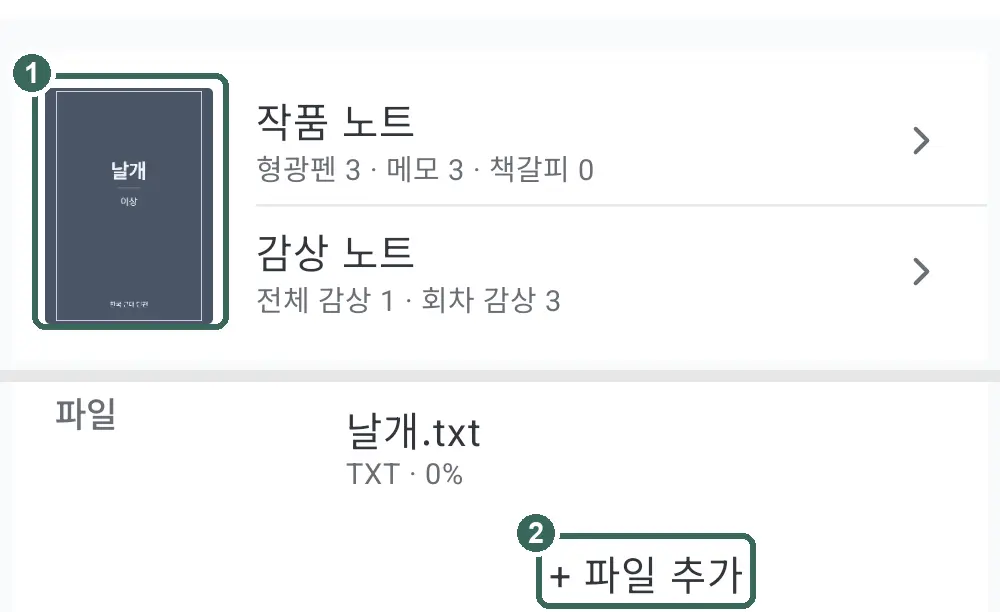
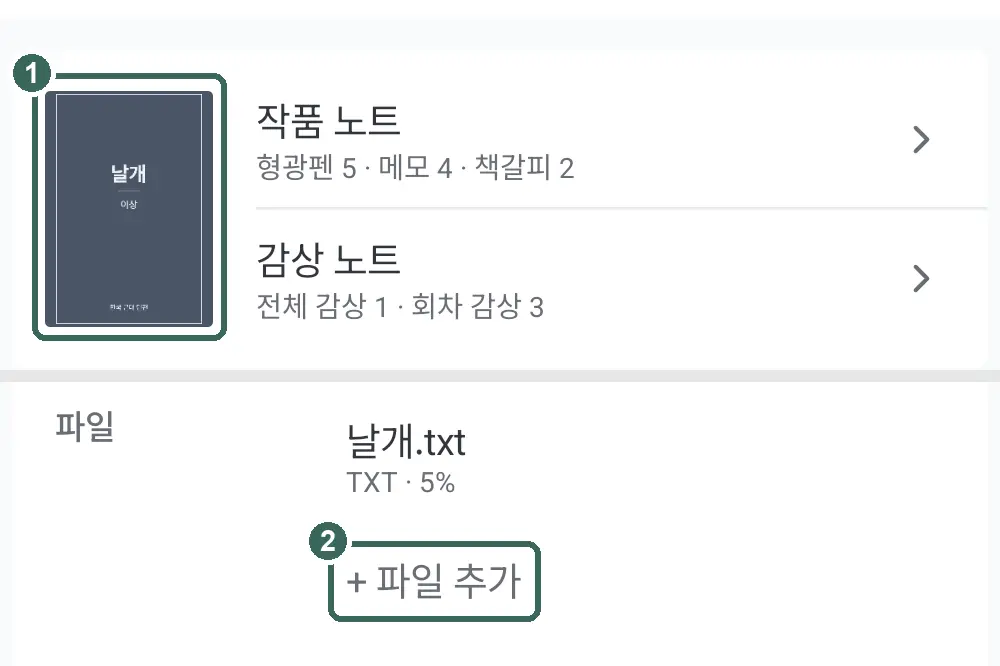
docs: 작품 정보 화면 그림을 지금 화면으로 바꾼다

diff --git a/en/index.html b/en/index.html
@@ -20,7 +20,7 @@ figcaption { margin-top: 6px; font-size: .875rem; color: #555; }
 <main id="top">
 <p><a href="../" lang="ko" hreflang="ko">한국어</a></p>
 <h1>User guide</h1>
-<p class="date">Last updated: November 2, 2026</p>
+<p class="date">Last updated: November 23, 2026</p>
 <nav class="toc"><ol>
 <li><a href="#s1">Add books</a></li>
 <li><a href="#s2">Reading and appearance</a></li>
@@ -39,7 +39,7 @@ figcaption { margin-top: 6px; font-size: .875rem; color: #555; }
 <figure><img src="../img/en/guide_s1_1.webp" alt="" loading="lazy" width="1080" height="375"><figcaption>1 Add books from a folder · 2 Add a file</figcaption></figure>
 <p>To attach more files to a work, tap &#x27;+ Add file&#x27; in the &#x27;File&#x27; row on the work info screen.</p>
 <p>Tap the cover and choose &#x27;Choose from file covers&#x27; or &#x27;Choose from gallery&#x27;.</p>
-<figure><img src="../img/guide_s1_2.webp" alt="" loading="lazy" width="1000" height="612"><figcaption>1 Cover (tap to change) · 2 + Add file</figcaption></figure>
+<figure><img src="../img/guide_s1_2.webp" alt="" loading="lazy" width="1000" height="666"><figcaption>1 Cover (tap to change) · 2 + Add file</figcaption></figure>
 <p class="top"><a href="#top">Scroll to top</a></p>
 <h2 id="s2">Reading and appearance</h2>
 <p>Open a book and tap the center to open the menu. Tap again to close it. Tap ‘Contents’ to open the list on the left. Tap outside the list to close it.</p>
@@ -78,7 +78,7 @@ figcaption { margin-top: 6px; font-size: .875rem; color: #555; }
 <p class="top"><a href="#top">Scroll to top</a></p>
 <h2 id="s6">Organize your library and shelves</h2>
 <p>In Library, open &#x27;Shelf list&#x27; and tap &#x27;+ Add new shelf&#x27;. Hold a work and choose &#x27;Add to shelf&#x27;.</p>
-<p>Change the status in &#x27;Edit book info&#x27; and works with book files are sorted into status shelves (for several works, select them and use &#x27;Change reading status&#x27;). &#x27;Reading&#x27; includes serializing works and rereads; &#x27;Completed&#x27; includes completed serials. Works cannot be added to or removed from status shelves by hand.</p>
+<p>Change the status in &#x27;Edit book info&#x27; and works with book files are sorted into status shelves (for several works, select them and use &#x27;Change reading status&#x27;). The &#x27;Reading&#x27; shelf includes books marked &#x27;Ongoing&#x27; or &#x27;Rereading&#x27;. The &#x27;Completed&#x27; shelf includes books marked &#x27;Finished series&#x27;. Works cannot be added to or removed from status shelves by hand.</p>
 <figure><img src="../img/guide_s6_2.webp" alt="" loading="lazy" width="1080" height="1018"><figcaption>1 Add to shelf · 2 Edit book info</figcaption></figure>
 <p>&#x27;Not started&#x27;, &#x27;Dropped&#x27;, and &#x27;Records only&#x27; are hidden at first. Choose which shelves to show with &#x27;Edit&#x27; in &#x27;Shelf list&#x27;.</p>
 <figure><img src="../img/guide_s6_1.webp" alt="" loading="lazy" width="718" height="1080"><figcaption>1 + Add new shelf · 2 Edit (show hidden shelves)</figcaption></figure>

diff --git a/index.html b/index.html
@@ -20,7 +20,7 @@ figcaption { margin-top: 6px; font-size: .875rem; color: #555; }
 <main id="top">
 <p><a href="en/" lang="en" hreflang="en">English</a></p>
 <h1>사용법</h1>
-<p class="date">최종 수정일: 2026년 11월 2일</p>
+<p class="date">최종 수정일: 2026년 11월 23일</p>
 <nav class="toc"><ol>
 <li><a href="#s1">책 넣기</a></li>
 <li><a href="#s2">읽기·보기 설정</a></li>
@@ -39,7 +39,7 @@ figcaption { margin-top: 6px; font-size: .875rem; color: #555; }
 <figure><img src="img/guide_s1_1.webp" alt="" loading="lazy" width="1080" height="380"><figcaption>1 지정 폴더에서 책 추가하기 · 2 파일 추가하기</figcaption></figure>
 <p>같은 작품에 파일을 더 붙이려면 작품 정보의 &#x27;파일&#x27; 줄에서 &#x27;+ 파일 추가&#x27;를 누릅니다.</p>
 <p>표지를 누르고 &#x27;파일 표지 중에서 고르기&#x27;나 &#x27;갤러리에서 고르기&#x27;를 누릅니다.</p>
-<figure><img src="img/guide_s1_2.webp" alt="" loading="lazy" width="1000" height="612"><figcaption>1 표지(누르면 표지 바꾸기) · 2 + 파일 추가</figcaption></figure>
+<figure><img src="img/guide_s1_2.webp" alt="" loading="lazy" width="1000" height="666"><figcaption>1 표지(누르면 표지 바꾸기) · 2 + 파일 추가</figcaption></figure>
 <p class="top"><a href="#top">맨 위로</a></p>
 <h2 id="s2">읽기·보기 설정</h2>
 <p>책을 열고 화면 가운데를 누르면 메뉴가 열립니다. 다시 누르면 닫힙니다. ‘목차’를 누르면 왼쪽에서 목록이 열리고 목록 바깥을 누르면 닫힙니다.</p>
